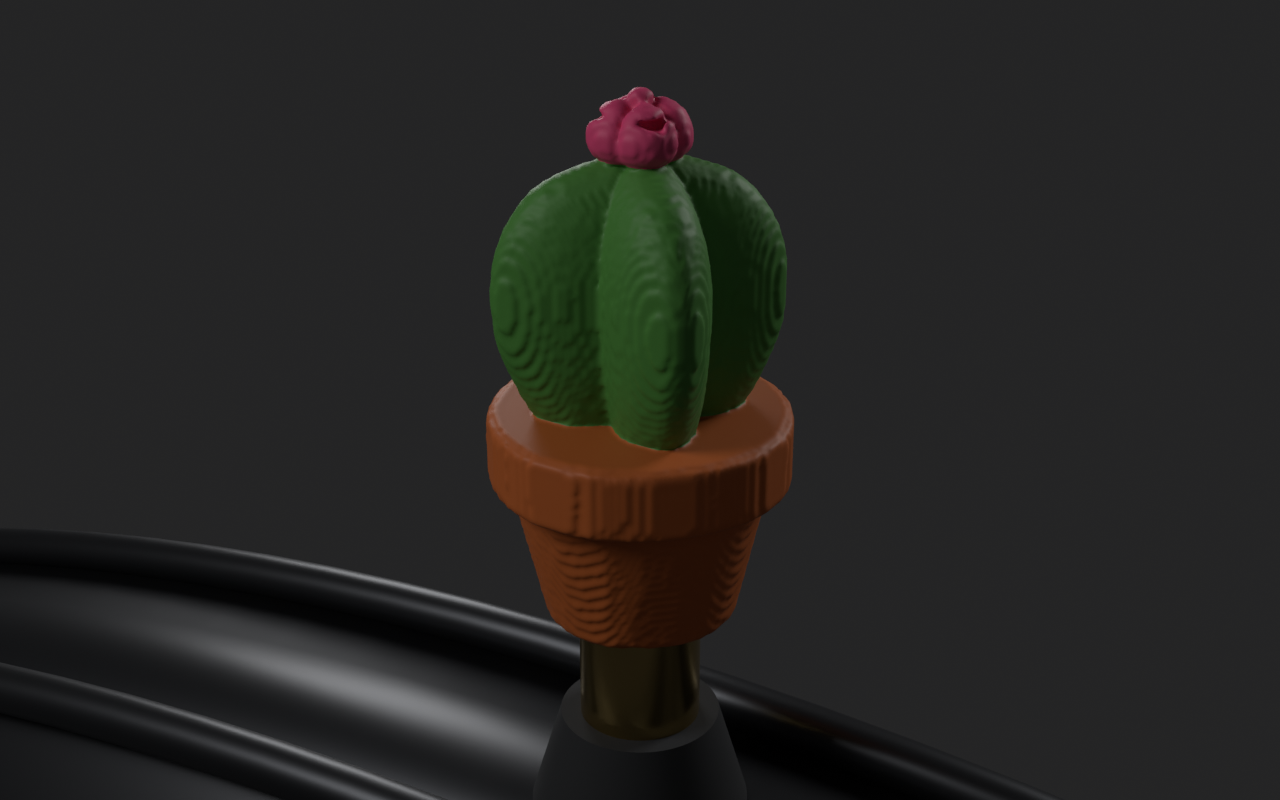
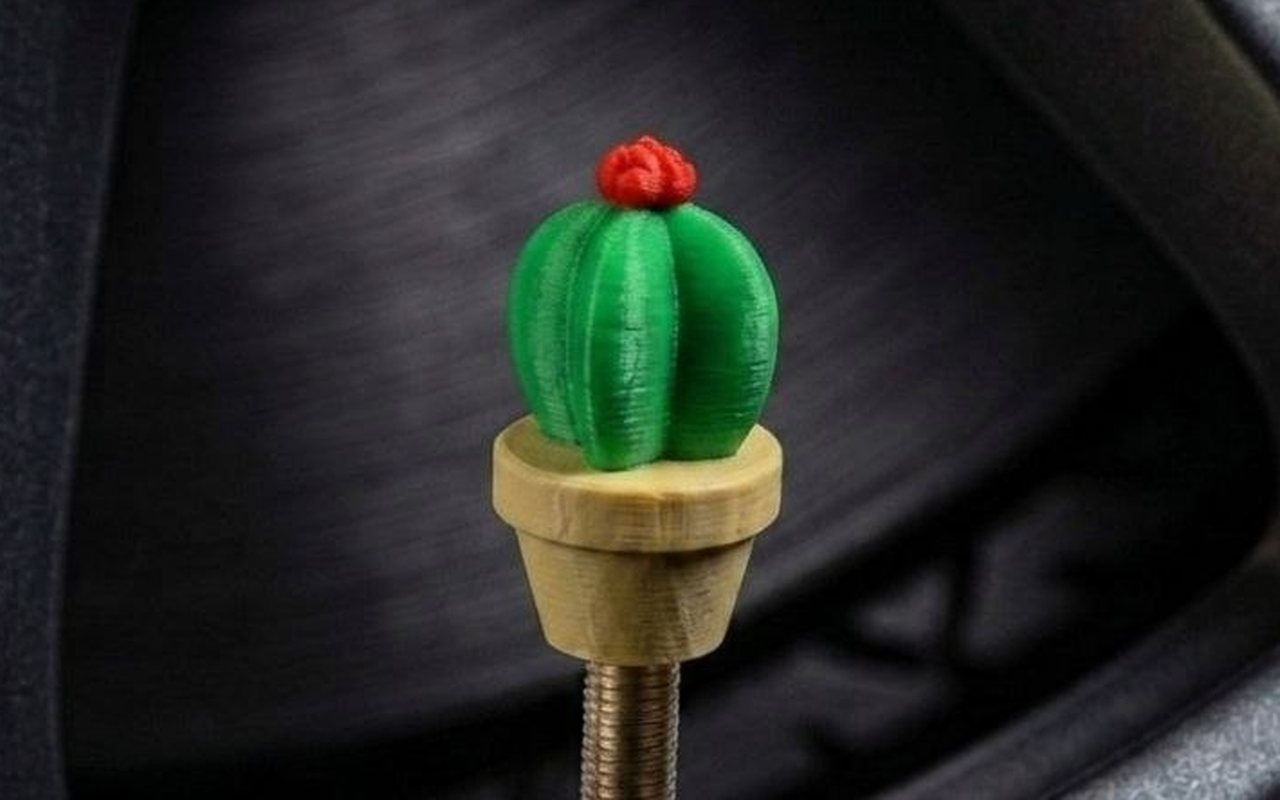
Datei-Export nur noch mit Schluessel; Produktfotos Kaktus + Popcorn
Export:
- 3MF/STL-Bereich ist in beiden Konfiguratoren oeffentlich ausgeblendet —
  Kunden bestellen, statt selbst zu drucken. Sichtbar nur mit
  ?export=<schluessel> (auch auf der umgebenden Seite, die ihn per
  Client-Skript ans iframe weiterreicht; Seiten bleiben statisch).
  Freigabe gilt fuer die Browser-Sitzung.
  Bewusst nur eine Huerde: die Geometrie entsteht im Browser.
- Testphase-Banner wirbt nicht mehr mit "3MF herunterladen".

Produktfotos:
- Kaktus und Popcorn: echte Fotos am Ventil statt Render, auf das
  Shop-Schema zugeschnitten (1280x800, Kappe auf 66% der Bildhoehe wie
  die bestehenden Fotos). Nur Ausschnitt/Zoom, sonst unbearbeitet.
- bildTyp render -> foto, damit der Hinweis "Renderbild - Foto folgt"
  bei beiden verschwindet.

diff --git a/public/organizer-app/index.html b/public/organizer-app/index.html
@@ -125,7 +125,7 @@
     <div class="note">Legt deinen Einsatz mit dem Live-Preis in den Warenkorb. Bezahlt wird bequem per QR-Rechnung nach der Bestellung.</div>
   </div>
 
-  <div class="grp"><h2>Export (Test)</h2>
+  <div class="grp" id="exportGrp"><h2>Export (Test)</h2>
     <div class="exp"><button id="ex3mf" class="ghost">3MF</button><button id="exstl" class="ghost">STL</button></div>
     <div class="note" id="expNote">Testphase: Datei herunterladen und selbst slicen.</div>
   </div>
@@ -1494,6 +1494,25 @@ addEventListener('resize',resize); resize();
 tree=VORLAGEN['Bürotisch']();
 rebuild();
 (function loop(){ requestAnimationFrame(loop); controls.update(); key.position.set(camera.position.x+80, camera.position.y+120, Math.abs(camera.position.z)+260); updateLabels(); renderer.render(scene,camera); })();
+
+// ---------- Export-Sperre ----------
+// Der Datei-Export ist oeffentlich NICHT sichtbar (Kunden bestellen, statt
+// selbst zu drucken). Sichtbar wird er nur mit dem Schluessel in der URL:
+//   ?export=<SCHLUESSEL>   — auch auf der Seite drumherum, die ihn weiterreicht.
+// HINWEIS: Das ist eine Huerde, kein Schutz — die Geometrie entsteht im
+// Browser, wer den Quelltext liest, kommt ohnehin an die Daten.
+(function(){
+  const SCHLUESSEL = 'werkstatt-0310634825f0';
+  const frage = new URLSearchParams(location.search);
+  let frei = frage.get('export') === SCHLUESSEL;
+  try {                                  // Freigabe merken (dieser Tab/Browser)
+    if (frei) sessionStorage.setItem('kl_export', SCHLUESSEL);
+    else frei = sessionStorage.getItem('kl_export') === SCHLUESSEL;
+  } catch(e) {}
+  if (frei) return;                      // alles bleibt wie es ist
+  const gruppe = document.getElementById('exportGrp');
+  if (gruppe) gruppe.style.display = 'none';
+})();
 </script>
 </body>
 </html>

diff --git a/public/qr-schilder-app/index.html b/public/qr-schilder-app/index.html
@@ -112,7 +112,7 @@
     <div class="note">Legt dein Schild mit dem Live-Preis in den Warenkorb. Bezahlt wird bequem per QR-Rechnung nach der Bestellung.</div>
   </div>
 
-  <div class="grp"><h2>Export (Test)</h2>
+  <div class="grp" id="exportGrp"><h2>Export (Test)</h2>
     <div class="exp"><button id="ex3mf" class="ghost">3MF</button><button id="exstl" class="ghost">STL</button></div>
     <div class="note">Testphase: Datei herunterladen und selbst slicen.</div>
   </div>
@@ -1057,6 +1057,25 @@ function resize(){ const w=view.clientWidth,h=view.clientHeight; renderer.setSiz
 addEventListener('resize', resize); resize();
 rebuild();
 (function loop(){ requestAnimationFrame(loop); controls.update(); key.position.copy(camera.position); renderer.render(scene,camera); })();
+
+// ---------- Export-Sperre ----------
+// Der Datei-Export ist oeffentlich NICHT sichtbar (Kunden bestellen, statt
+// selbst zu drucken). Sichtbar wird er nur mit dem Schluessel in der URL:
+//   ?export=<SCHLUESSEL>   — auch auf der Seite drumherum, die ihn weiterreicht.
+// HINWEIS: Das ist eine Huerde, kein Schutz — die Geometrie entsteht im
+// Browser, wer den Quelltext liest, kommt ohnehin an die Daten.
+(function(){
+  const SCHLUESSEL = 'werkstatt-0310634825f0';
+  const frage = new URLSearchParams(location.search);
+  let frei = frage.get('export') === SCHLUESSEL;
+  try {                                  // Freigabe merken (dieser Tab/Browser)
+    if (frei) sessionStorage.setItem('kl_export', SCHLUESSEL);
+    else frei = sessionStorage.getItem('kl_export') === SCHLUESSEL;
+  } catch(e) {}
+  if (frei) return;                      // alles bleibt wie es ist
+  const gruppe = document.getElementById('exportGrp');
+  if (gruppe) gruppe.style.display = 'none';
+})();
 </script>
 </body>
 </html>
